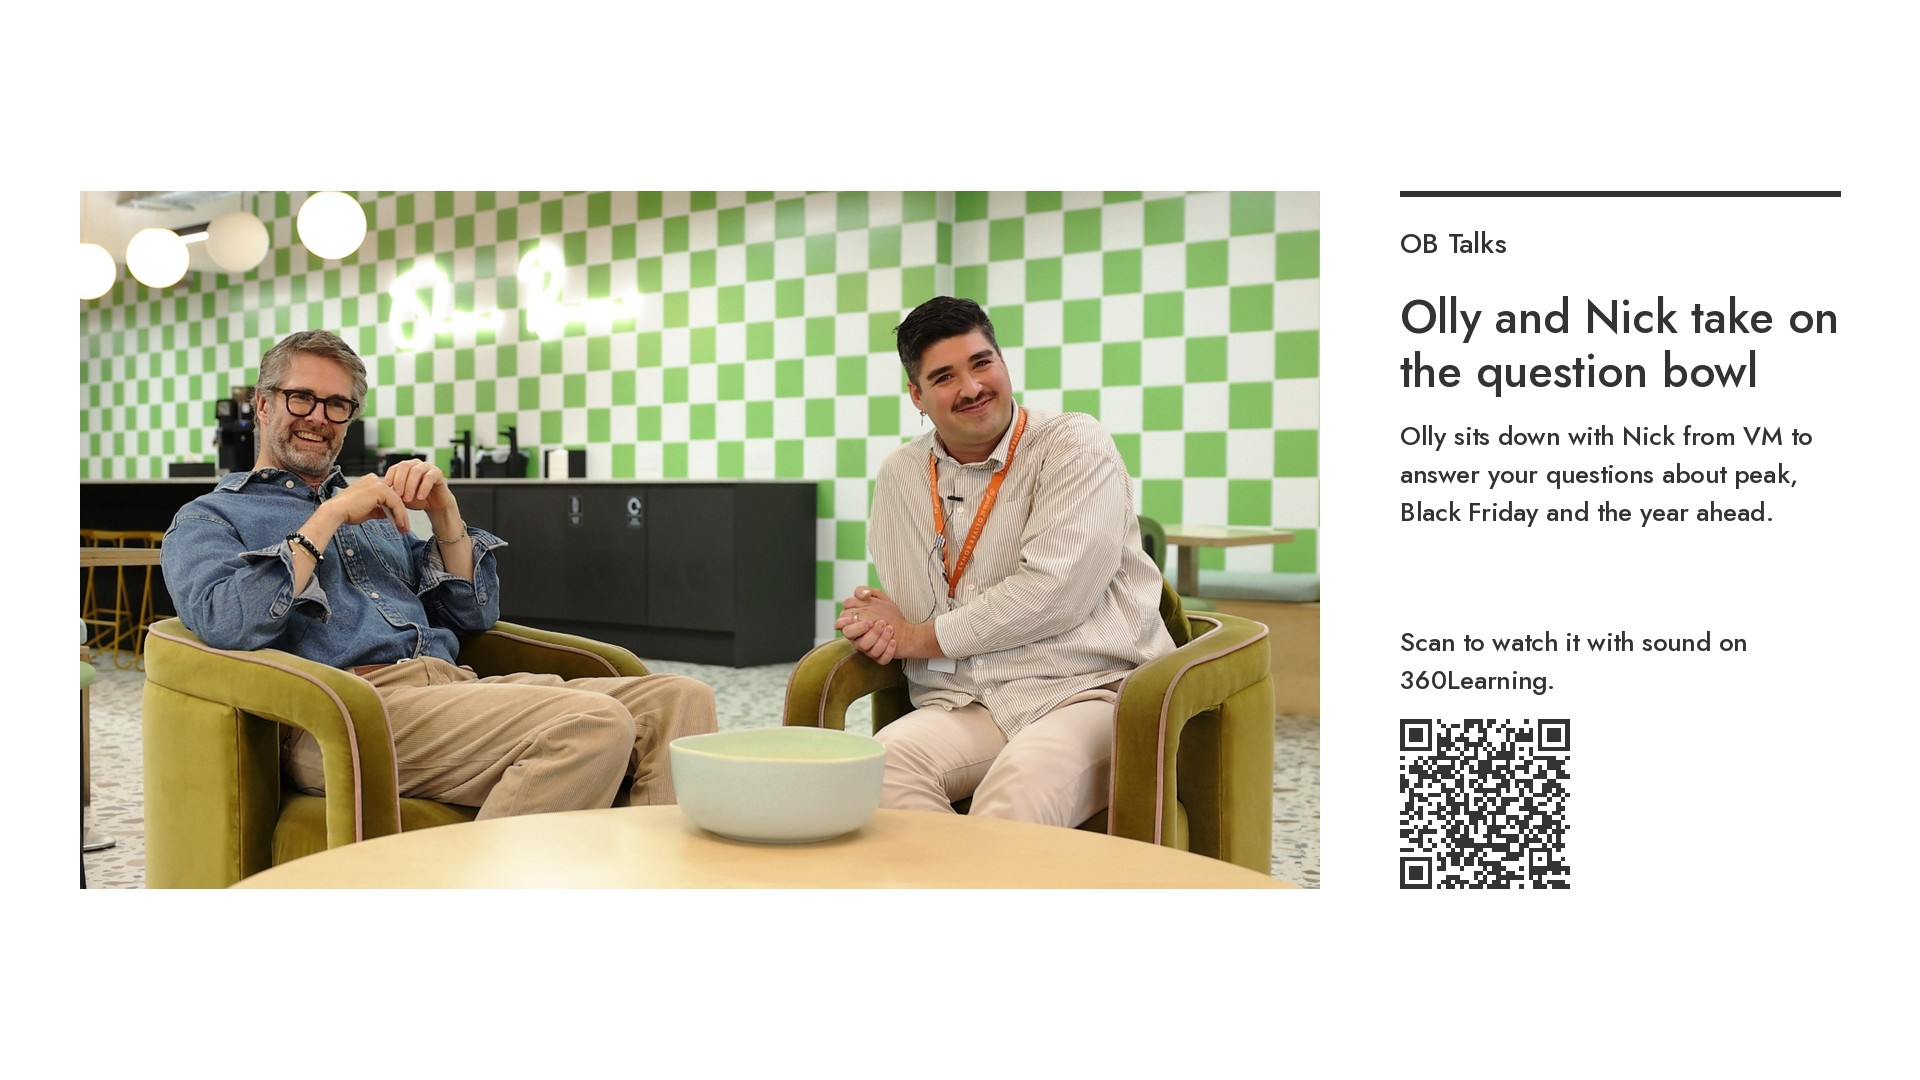
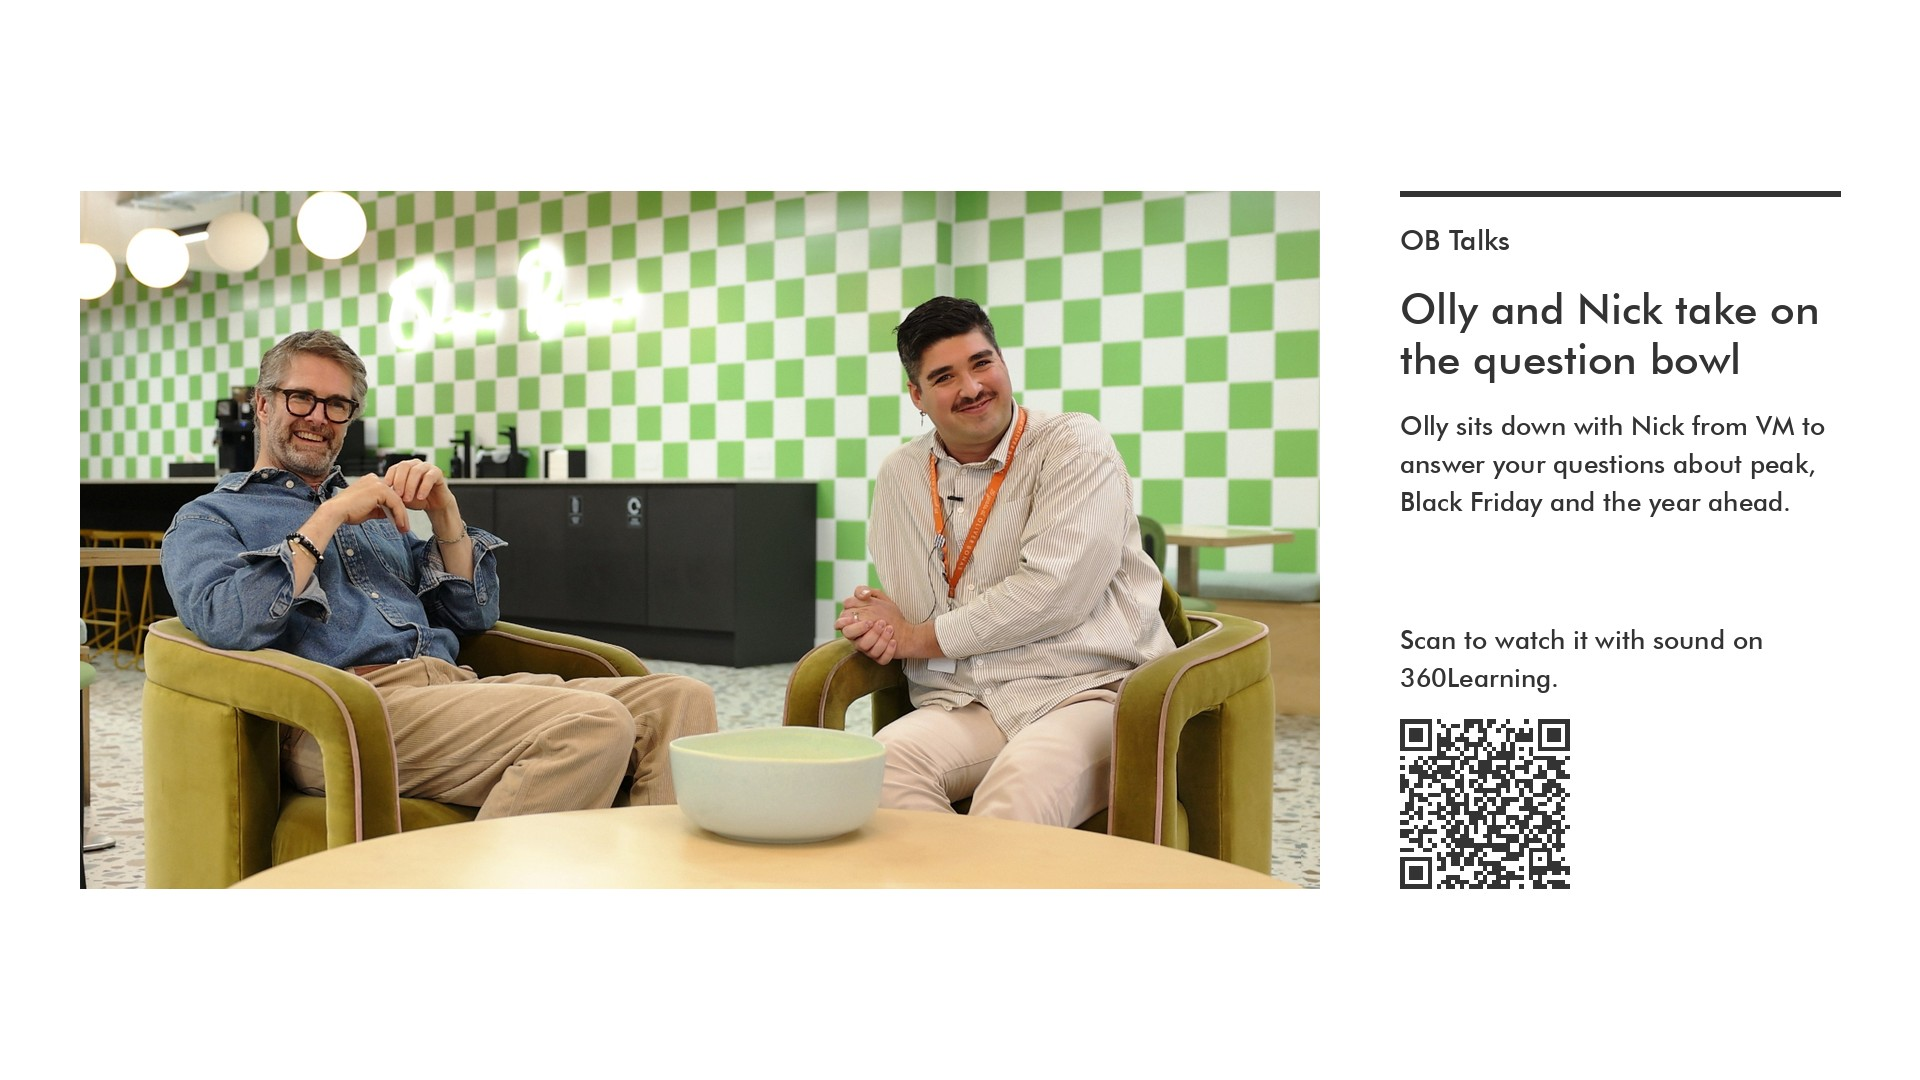
updated info with rt, via and futura

Changed region(s): [[0.7188, 0.275, 0.9688, 0.4889], [0.7188, 0.5806, 0.9062, 0.6417], [0.7188, 0.2139, 0.7812, 0.2444]]

diff --git a/index.html b/index.html
@@ -6,10 +6,6 @@
 <title>OB Talks – reception screen</title>
 <style>
   /* OB brand: ink and white only, Futura Md BT, no bold, no caps, no letter-spacing */
-  @font-face {
-    font-family: "Futura Md BT";
-    src: url("FuturaMdBT.ttf");   /* put the font file in the same folder, or change this name */
-  }
   :root {
     --ink: #333333;
     --white: #FFFFFF;
@@ -31,7 +27,7 @@
   .screen {
     height: 100%;
     display: grid;
-    grid-template-columns: 1fr 28vw;
+    grid-template-columns: 1fr 23vw;
     gap: 4vw;
     padding: 5vh 4vw;
     align-items: center;
@@ -53,10 +49,8 @@
     background: var(--ink);
   }
 
-  .context {
-    border-top: 0.25vw solid var(--ink);
-    padding-top: 3vh;
-  }
+  /* Panel image scales evenly with the screen – never stretched */
+  .context img { display: block; width: 100%; height: auto; }
   .series { font-size: 1.5vw; }
   .context h1 {
     font-size: 3.2vw;
@@ -70,6 +64,15 @@
   /* QR stays a fixed size – never stretched */
   .qr { display: block; width: 9vw; height: 9vw; margin-top: 2vh; }
 
+  /* Slides fill the screen at their own 16:9 shape – never stretched */
+  .slides { position: fixed; inset: 0; background: var(--white); display: none; }
+  .slides.on { display: block; }
+  .slide { position: absolute; inset: 0; width: 100%; height: 100%; object-fit: contain;
+           opacity: 0; transition: opacity 0.8s ease; }
+  .slide.on { opacity: 1; }
+  .screen { transition: opacity 0.8s ease; }
+  .screen.off { opacity: 0; }
+
   /* Fallback cover – shown whole, never stretched */
   .fallback { display: none; position: fixed; inset: 0; background: var(--white); }
   .fallback img { width: 100%; height: 100%; object-fit: contain; }
@@ -80,27 +83,63 @@
     <div class="video-wrap">
       <!-- The video sits next to this file as ob-talks.mp4. It plays muted because TVs and
            browsers block autoplay with sound (the subtitles are burned in). -->
-      <video id="film" poster="poster.jpg" src="ob-talks.mp4" autoplay muted loop playsinline></video>
+      <video id="film" poster="poster.jpg" src="ob-talks.mp4" autoplay muted playsinline></video>
     </div>
 
     <!-- EDIT THE WORDING HERE -->
     <aside class="context">
-      <p class="series">OB Talks</p>
-      <h1>Olly and Nick take on the question bowl</h1>
-      <p>Olly sits down with Nick from VM to answer your questions about peak, Black Friday and the year ahead.</p>
-      <p>Scan to watch it with sound on 360Learning.</p>
-      <svg class="qr" role="img" aria-label="QR code for OB Talks on 360Learning" version="1.1" viewBox="0 0 41 41" xmlns="http://www.w3.org/2000/svg"><path d="M2,2H3V3H2zM3,2H4V3H3zM4,2H5V3H4zM5,2H6V3H5zM6,2H7V3H6zM7,2H8V3H7zM8,2H9V3H8zM10,2H11V3H10zM16,2H17V3H16zM17,2H18V3H17zM18,2H19V3H18zM19,2H20V3H19zM21,2H22V3H21zM22,2H23V3H22zM25,2H26V3H25zM29,2H30V3H29zM32,2H33V3H32zM33,2H34V3H33zM34,2H35V3H34zM35,2H36V3H35zM36,2H37V3H36zM37,2H38V3H37zM38,2H39V3H38zM2,3H3V4H2zM8,3H9V4H8zM11,3H12V4H11zM13,3H14V4H13zM14,3H15V4H14zM16,3H17V4H16zM17,3H18V4H17zM19,3H20V4H19zM21,3H22V4H21zM24,3H25V4H24zM32,3H33V4H32zM38,3H39V4H38zM2,4H3V5H2zM4,4H5V5H4zM5,4H6V5H5zM6,4H7V5H6zM8,4H9V5H8zM12,4H13V5H12zM16,4H17V5H16zM19,4H20V5H19zM20,4H21V5H20zM23,4H24V5H23zM25,4H26V5H25zM26,4H27V5H26zM28,4H29V5H28zM30,4H31V5H30zM32,4H33V5H32zM34,4H35V5H34zM35,4H36V5H35zM36,4H37V5H36zM38,4H39V5H38zM2,5H3V6H2zM4,5H5V6H4zM5,5H6V6H5zM6,5H7V6H6zM8,5H9V6H8zM10,5H11V6H10zM12,5H13V6H12zM15,5H16V6H15zM20,5H21V6H20zM25,5H26V6H25zM27,5H28V6H27zM28,5H29V6H28zM29,5H30V6H29zM30,5H31V6H30zM32,5H33V6H32zM34,5H35V6H34zM35,5H36V6H35zM36,5H37V6H36zM38,5H39V6H38zM2,6H3V7H2zM4,6H5V7H4zM5,6H6V7H5zM6,6H7V7H6zM8,6H9V7H8zM10,6H11V7H10zM11,6H12V7H11zM12,6H13V7H12zM14,6H15V7H14zM15,6H16V7H15zM16,6H17V7H16zM19,6H20V7H19zM20,6H21V7H20zM25,6H26V7H25zM27,6H28V7H27zM28,6H29V7H28zM29,6H30V7H29zM30,6H31V7H30zM32,6H33V7H32zM34,6H35V7H34zM35,6H36V7H35zM36,6H37V7H36zM38,6H39V7H38zM2,7H3V8H2zM8,7H9V8H8zM10,7H11V8H10zM11,7H12V8H11zM12,7H13V8H12zM13,7H14V8H13zM16,7H17V8H16zM17,7H18V8H17zM18,7H19V8H18zM19,7H20V8H19zM21,7H22V8H21zM24,7H25V8H24zM26,7H27V8H26zM32,7H33V8H32zM38,7H39V8H38zM2,8H3V9H2zM3,8H4V9H3zM4,8H5V9H4zM5,8H6V9H5zM6,8H7V9H6zM7,8H8V9H7zM8,8H9V9H8zM10,8H11V9H10zM12,8H13V9H12zM14,8H15V9H14zM16,8H17V9H16zM18,8H19V9H18zM20,8H21V9H20zM22,8H23V9H22zM24,8H25V9H24zM26,8H27V9H26zM28,8H29V9H28zM30,8H31V9H30zM32,8H33V9H32zM33,8H34V9H33zM34,8H35V9H34zM35,8H36V9H35zM36,8H37V9H36zM37,8H38V9H37zM38,8H39V9H38zM10,9H11V10H10zM11,9H12V10H11zM15,9H16V10H15zM18,9H19V10H18zM21,9H22V10H21zM23,9H24V10H23zM24,9H25V10H24zM25,9H26V10H25zM26,9H27V10H26zM30,9H31V10H30zM2,10H3V11H2zM6,10H7V11H6zM8,10H9V11H8zM9,10H10V11H9zM10,10H11V11H10zM11,10H12V11H11zM12,10H13V11H12zM13,10H14V11H13zM14,10H15V11H14zM16,10H17V11H16zM17,10H18V11H17zM18,10H19V11H18zM21,10H22V11H21zM22,10H23V11H22zM23,10H24V11H23zM24,10H25V11H24zM25,10H26V11H25zM26,10H27V11H26zM28,10H29V11H28zM31,10H32V11H31zM32,10H33V11H32zM33,10H34V11H33zM34,10H35V11H34zM35,10H36V11H35zM38,10H39V11H38zM5,11H6V12H5zM7,11H8V12H7zM9,11H10V12H9zM13,11H14V12H13zM15,11H16V12H15zM16,11H17V12H16zM19,11H20V12H19zM20,11H21V12H20zM21,11H22V12H21zM25,11H26V12H25zM29,11H30V12H29zM30,11H31V12H30zM34,11H35V12H34zM35,11H36V12H35zM36,11H37V12H36zM37,11H38V12H37zM2,12H3V13H2zM4,12H5V13H4zM5,12H6V13H5zM6,12H7V13H6zM8,12H9V13H8zM10,12H11V13H10zM11,12H12V13H11zM12,12H13V13H12zM13,12H14V13H13zM15,12H16V13H15zM17,12H18V13H17zM19,12H20V13H19zM20,12H21V13H20zM21,12H22V13H21zM23,12H24V13H23zM24,12H25V13H24zM25,12H26V13H25zM27,12H28V13H27zM28,12H29V13H28zM29,12H30V13H29zM32,12H33V13H32zM34,12H35V13H34zM35,12H36V13H35zM36,12H37V13H36zM4,13H5V14H4zM5,13H6V14H5zM6,13H7V14H6zM7,13H8V14H7zM9,13H10V14H9zM10,13H11V14H10zM11,13H12V14H11zM12,13H13V14H12zM14,13H15V14H14zM17,13H18V14H17zM18,13H19V14H18zM19,13H20V14H19zM20,13H21V14H20zM21,13H22V14H21zM22,13H23V14H22zM23,13H24V14H23zM25,13H26V14H25zM26,13H27V14H26zM29,13H30V14H29zM32,13H33V14H32zM33,13H34V14H33zM36,13H37V14H36zM37,13H38V14H37zM2,14H3V15H2zM6,14H7V15H6zM7,14H8V15H7zM8,14H9V15H8zM9,14H10V15H9zM11,14H12V15H11zM12,14H13V15H12zM13,14H14V15H13zM15,14H16V15H15zM19,14H20V15H19zM20,14H21V15H20zM22,14H23V15H22zM23,14H24V15H23zM24,14H25V15H24zM26,14H27V15H26zM31,14H32V15H31zM32,14H33V15H32zM33,14H34V15H33zM36,14H37V15H36zM37,14H38V15H37zM38,14H39V15H38zM2,15H3V16H2zM3,15H4V16H3zM6,15H7V16H6zM9,15H10V16H9zM10,15H11V16H10zM14,15H15V16H14zM15,15H16V16H15zM17,15H18V16H17zM18,15H19V16H18zM20,15H21V16H20zM24,15H25V16H24zM25,15H26V16H25zM27,15H28V16H27zM28,15H29V16H28zM29,15H30V16H29zM30,15H31V16H30zM34,15H35V16H34zM35,15H36V16H35zM2,16H3V17H2zM3,16H4V17H3zM5,16H6V17H5zM6,16H7V17H6zM8,16H9V17H8zM11,16H12V17H11zM14,16H15V17H14zM15,16H16V17H15zM17,16H18V17H17zM19,16H20V17H19zM23,16H24V17H23zM24,16H25V17H24zM25,16H26V17H25zM27,16H28V17H27zM29,16H30V17H29zM30,16H31V17H30zM33,16H34V17H33zM34,16H35V17H34zM35,16H36V17H35zM36,16H37V17H36zM2,17H3V18H2zM4,17H5V18H4zM11,17H12V18H11zM12,17H13V18H12zM13,17H14V18H13zM15,17H16V18H15zM18,17H19V18H18zM19,17H20V18H19zM20,17H21V18H20zM21,17H22V18H21zM22,17H23V18H22zM23,17H24V18H23zM25,17H26V18H25zM28,17H29V18H28zM30,17H31V18H30zM33,17H34V18H33zM34,17H35V18H34zM36,17H37V18H36zM37,17H38V18H37zM4,18H5V19H4zM5,18H6V19H5zM6,18H7V19H6zM8,18H9V19H8zM9,18H10V19H9zM10,18H11V19H10zM12,18H13V19H12zM14,18H15V19H14zM16,18H17V19H16zM20,18H21V19H20zM23,18H24V19H23zM28,18H29V19H28zM31,18H32V19H31zM32,18H33V19H32zM33,18H34V19H33zM35,18H36V19H35zM36,18H37V19H36zM38,18H39V19H38zM4,19H5V20H4zM6,19H7V20H6zM7,19H8V20H7zM12,19H13V20H12zM13,19H14V20H13zM16,19H17V20H16zM18,19H19V20H18zM19,19H20V20H19zM21,19H22V20H21zM22,19H23V20H22zM24,19H25V20H24zM25,19H26V20H25zM26,19H27V20H26zM27,19H28V20H27zM29,19H30V20H29zM30,19H31V20H30zM34,19H35V20H34zM37,19H38V20H37zM3,20H4V21H3zM4,20H5V21H4zM8,20H9V21H8zM10,20H11V21H10zM12,20H13V21H12zM13,20H14V21H13zM14,20H15V21H14zM15,20H16V21H15zM16,20H17V21H16zM18,20H19V21H18zM20,20H21V21H20zM22,20H23V21H22zM24,20H25V21H24zM25,20H26V21H25zM29,20H30V21H29zM30,20H31V21H30zM32,20H33V21H32zM33,20H34V21H33zM36,20H37V21H36zM3,21H4V22H3zM4,21H5V22H4zM6,21H7V22H6zM10,21H11V22H10zM11,21H12V22H11zM13,21H14V22H13zM14,21H15V22H14zM16,21H17V22H16zM19,21H20V22H19zM20,21H21V22H20zM23,21H24V22H23zM24,21H25V22H24zM28,21H29V22H28zM29,21H30V22H29zM30,21H31V22H30zM31,21H32V22H31zM36,21H37V22H36zM37,21H38V22H37zM2,22H3V23H2zM3,22H4V23H3zM5,22H6V23H5zM6,22H7V23H6zM8,22H9V23H8zM9,22H10V23H9zM10,22H11V23H10zM12,22H13V23H12zM13,22H14V23H13zM14,22H15V23H14zM16,22H17V23H16zM17,22H18V23H17zM18,22H19V23H18zM19,22H20V23H19zM21,22H22V23H21zM22,22H23V23H22zM23,22H24V23H23zM24,22H25V23H24zM30,22H31V23H30zM31,22H32V23H31zM32,22H33V23H32zM33,22H34V23H33zM35,22H36V23H35zM36,22H37V23H36zM4,23H5V24H4zM6,23H7V24H6zM10,23H11V24H10zM11,23H12V24H11zM13,23H14V24H13zM17,23H18V24H17zM18,23H19V24H18zM19,23H20V24H19zM20,23H21V24H20zM22,23H23V24H22zM25,23H26V24H25zM26,23H27V24H26zM27,23H28V24H27zM29,23H30V24H29zM30,23H31V24H30zM33,23H34V24H33zM34,23H35V24H34zM37,23H38V24H37zM2,24H3V25H2zM3,24H4V25H3zM8,24H9V25H8zM12,24H13V25H12zM14,24H15V25H14zM15,24H16V25H15zM17,24H18V25H17zM18,24H19V25H18zM20,24H21V25H20zM22,24H23V25H22zM25,24H26V25H25zM27,24H28V25H27zM28,24H29V25H28zM29,24H30V25H29zM33,24H34V25H33zM34,24H35V25H34zM35,24H36V25H35zM36,24H37V25H36zM5,25H6V26H5zM7,25H8V26H7zM11,25H12V26H11zM13,25H14V26H13zM14,25H15V26H14zM16,25H17V26H16zM18,25H19V26H18zM21,25H22V26H21zM22,25H23V26H22zM23,25H24V26H23zM24,25H25V26H24zM26,25H27V26H26zM28,25H29V26H28zM29,25H30V26H29zM31,25H32V26H31zM32,25H33V26H32zM33,25H34V26H33zM34,25H35V26H34zM36,25H37V26H36zM38,25H39V26H38zM2,26H3V27H2zM3,26H4V27H3zM4,26H5V27H4zM6,26H7V27H6zM7,26H8V27H7zM8,26H9V27H8zM9,26H10V27H9zM12,26H13V27H12zM13,26H14V27H13zM14,26H15V27H14zM16,26H17V27H16zM18,26H19V27H18zM21,26H22V27H21zM22,26H23V27H22zM23,26H24V27H23zM28,26H29V27H28zM30,26H31V27H30zM32,26H33V27H32zM33,26H34V27H33zM35,26H36V27H35zM36,26H37V27H36zM37,26H38V27H37zM2,27H3V28H2zM3,27H4V28H3zM6,27H7V28H6zM12,27H13V28H12zM13,27H14V28H13zM15,27H16V28H15zM16,27H17V28H16zM20,27H21V28H20zM21,27H22V28H21zM23,27H24V28H23zM24,27H25V28H24zM25,27H26V28H25zM26,27H27V28H26zM27,27H28V28H27zM29,27H30V28H29zM31,27H32V28H31zM34,27H35V28H34zM36,27H37V28H36zM4,28H5V29H4zM5,28H6V29H5zM6,28H7V29H6zM8,28H9V29H8zM11,28H12V29H11zM13,28H14V29H13zM14,28H15V29H14zM15,28H16V29H15zM16,28H17V29H16zM17,28H18V29H17zM21,28H22V29H21zM25,28H26V29H25zM26,28H27V29H26zM27,28H28V29H27zM29,28H30V29H29zM30,28H31V29H30zM31,28H32V29H31zM32,28H33V29H32zM34,28H35V29H34zM36,28H37V29H36zM6,29H7V30H6zM9,29H10V30H9zM12,29H13V30H12zM14,29H15V30H14zM15,29H16V30H15zM16,29H17V30H16zM17,29H18V30H17zM18,29H19V30H18zM19,29H20V30H19zM20,29H21V30H20zM21,29H22V30H21zM22,29H23V30H22zM23,29H24V30H23zM24,29H25V30H24zM25,29H26V30H25zM28,29H29V30H28zM29,29H30V30H29zM33,29H34V30H33zM35,29H36V30H35zM36,29H37V30H36zM37,29H38V30H37zM2,30H3V31H2zM3,30H4V31H3zM4,30H5V31H4zM7,30H8V31H7zM8,30H9V31H8zM13,30H14V31H13zM15,30H16V31H15zM18,30H19V31H18zM19,30H20V31H19zM22,30H23V31H22zM23,30H24V31H23zM24,30H25V31H24zM25,30H26V31H25zM28,30H29V31H28zM30,30H31V31H30zM31,30H32V31H31zM32,30H33V31H32zM33,30H34V31H33zM34,30H35V31H34zM36,30H37V31H36zM10,31H11V32H10zM12,31H13V32H12zM13,31H14V32H13zM14,31H15V32H14zM15,31H16V32H15zM17,31H18V32H17zM18,31H19V32H18zM20,31H21V32H20zM25,31H26V32H25zM26,31H27V32H26zM27,31H28V32H27zM28,31H29V32H28zM30,31H31V32H30zM34,31H35V32H34zM2,32H3V33H2zM3,32H4V33H3zM4,32H5V33H4zM5,32H6V33H5zM6,32H7V33H6zM7,32H8V33H7zM8,32H9V33H8zM10,32H11V33H10zM11,32H12V33H11zM13,32H14V33H13zM14,32H15V33H14zM16,32H17V33H16zM17,32H18V33H17zM19,32H20V33H19zM24,32H25V33H24zM25,32H26V33H25zM26,32H27V33H26zM27,32H28V33H27zM30,32H31V33H30zM32,32H33V33H32zM34,32H35V33H34zM37,32H38V33H37zM2,33H3V34H2zM8,33H9V34H8zM11,33H12V34H11zM13,33H14V34H13zM14,33H15V34H14zM16,33H17V34H16zM17,33H18V34H17zM19,33H20V34H19zM20,33H21V34H20zM21,33H22V34H21zM22,33H23V34H22zM23,33H24V34H23zM30,33H31V34H30zM34,33H35V34H34zM35,33H36V34H35zM36,33H37V34H36zM2,34H3V35H2zM4,34H5V35H4zM5,34H6V35H5zM6,34H7V35H6zM8,34H9V35H8zM10,34H11V35H10zM11,34H12V35H11zM15,34H16V35H15zM20,34H21V35H20zM22,34H23V35H22zM23,34H24V35H23zM24,34H25V35H24zM28,34H29V35H28zM30,34H31V35H30zM31,34H32V35H31zM32,34H33V35H32zM33,34H34V35H33zM34,34H35V35H34zM35,34H36V35H35zM36,34H37V35H36zM37,34H38V35H37zM38,34H39V35H38zM2,35H3V36H2zM4,35H5V36H4zM5,35H6V36H5zM6,35H7V36H6zM8,35H9V36H8zM18,35H19V36H18zM19,35H20V36H19zM21,35H22V36H21zM22,35H23V36H22zM23,35H24V36H23zM25,35H26V36H25zM26,35H27V36H26zM30,35H31V36H30zM31,35H32V36H31zM32,35H33V36H32zM33,35H34V36H33zM35,35H36V36H35zM36,35H37V36H36zM38,35H39V36H38zM2,36H3V37H2zM4,36H5V37H4zM5,36H6V37H5zM6,36H7V37H6zM8,36H9V37H8zM12,36H13V37H12zM13,36H14V37H13zM14,36H15V37H14zM18,36H19V37H18zM20,36H21V37H20zM23,36H24V37H23zM24,36H25V37H24zM25,36H26V37H25zM26,36H27V37H26zM27,36H28V37H27zM28,36H29V37H28zM30,36H31V37H30zM32,36H33V37H32zM2,37H3V38H2zM8,37H9V38H8zM11,37H12V38H11zM12,37H13V38H12zM14,37H15V38H14zM15,37H16V38H15zM16,37H17V38H16zM19,37H20V38H19zM20,37H21V38H20zM22,37H23V38H22zM23,37H24V38H23zM25,37H26V38H25zM31,37H32V38H31zM32,37H33V38H32zM34,37H35V38H34zM35,37H36V38H35zM36,37H37V38H36zM37,37H38V38H37zM2,38H3V39H2zM3,38H4V39H3zM4,38H5V39H4zM5,38H6V39H5zM6,38H7V39H6zM7,38H8V39H7zM8,38H9V39H8zM10,38H11V39H10zM12,38H13V39H12zM13,38H14V39H13zM15,38H16V39H15zM17,38H18V39H17zM18,38H19V39H18zM19,38H20V39H19zM21,38H22V39H21zM22,38H23V39H22zM23,38H24V39H23zM24,38H25V39H24zM25,38H26V39H25zM28,38H29V39H28zM31,38H32V39H31zM32,38H33V39H32zM33,38H34V39H33zM35,38H36V39H35zM36,38H37V39H36zM37,38H38V39H37zM38,38H39V39H38z" id="qr-path" fill="#333333" fill-opacity="1" fill-rule="nonzero" stroke="none"/></svg>
+      <!-- Text and QR code are one image in Futura Md BT, so the font file never goes online -->
+      <img src="panel.png" alt="OB Talks. Olly and Nick take on the question bowl. Olly sits down with Nick from VM to answer your questions about peak, Black Friday and the year ahead. Scan to watch it with sound on 360Learning.">
     </aside>
   </main>
+
+  <!-- SLIDES: add, remove or reorder here. Each shows for SLIDE_SECONDS after the video. -->
+  <div class="slides">
+    <img class="slide" src="slide-values-in-action.png" alt="Values in Action – who made your quarter? Scan to nominate. Nominations close 16th December.">
+    <img class="slide" src="slide-retail-trust.png" alt="We’re with Retail Trust. 24-hour helpline 0808 801 0808. Register at account.retailtrust.org.uk/register and choose Oliver Bonas as your employer.">
+  </div>
   <div class="fallback" id="fallback"><img alt="OB Talks: Olly and Nick take on the question bowl" src="cover.jpg"></div>
 
 <script>
+  const SLIDE_SECONDS = 20;            // how long each slide stays up
   const film = document.getElementById('film');
+  const screen = document.querySelector('.screen');
+  const slideBox = document.querySelector('.slides');
+  const slides = [...document.querySelectorAll('.slide')];
   const fallback = document.getElementById('fallback');
-  film.addEventListener('error', () => {
-    fallback.style.display = 'block';
-    setTimeout(() => location.reload(), 30000);
+  const wait = ms => new Promise(r => setTimeout(r, ms));
+
+  async function showSlides() {
+    slideBox.classList.add('on');
+    for (const s of slides) {
+      s.classList.add('on');
+      await wait(SLIDE_SECONDS * 1000);
+      s.classList.remove('on');
+      await wait(800);
+    }
+    slideBox.classList.remove('on');
+  }
+
+  // Video plays once, then the slides, then round again
+  film.addEventListener('ended', async () => {
+    screen.classList.add('off');
+    await showSlides();
+    film.currentTime = 0;
+    screen.classList.remove('off');
+    film.play().catch(() => {});
   });
+
+  // If the video won’t load: show the cover, then the slides, on repeat
+  film.addEventListener('error', async () => {
+    while (true) {
+      fallback.style.display = 'block';
+      await wait(SLIDE_SECONDS * 1000);
+      fallback.style.display = 'none';
+      await showSlides();
+    }
+  }, { once: true });
+
+  // If the TV ever pauses it mid-play, start it again
   film.addEventListener('pause', () => { if (!film.ended) film.play().catch(() => {}); });
 </script>
 </body>
